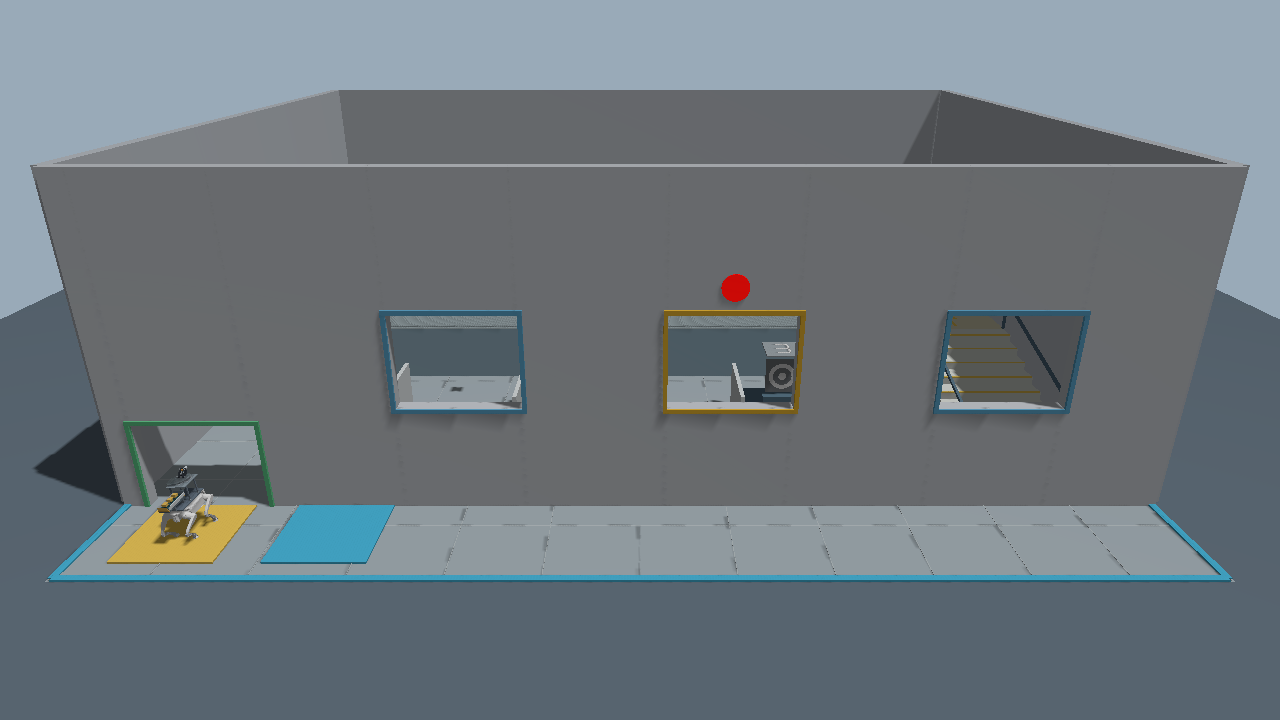
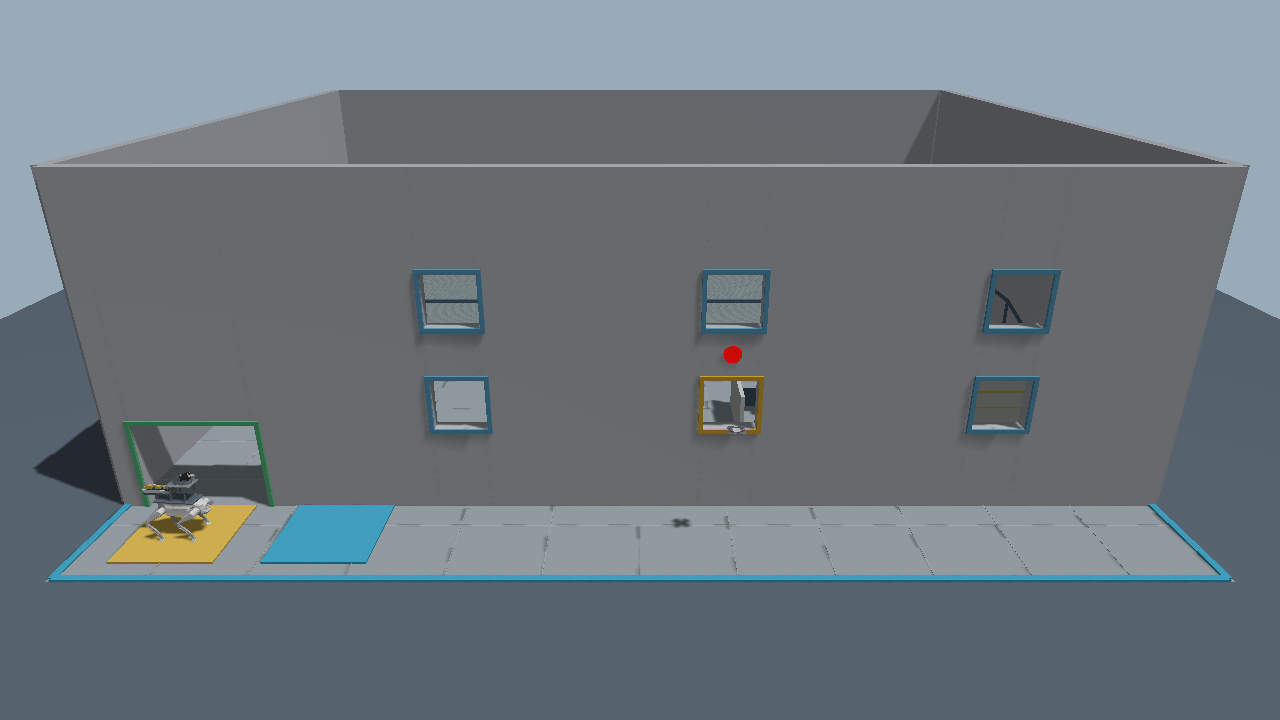
Resize facade to six 60 cm windows

diff --git a/launch/competition.launch.py b/launch/competition.launch.py
@@ -14,7 +14,7 @@ def generate_launch_description():
         'output': ('', 'New run directory; empty creates a timestamped ~/.ros run'),
         'max_sim_time': ('0', 'Stop after this many simulated seconds; 0 disables the limit'),
         'exit_on_finish': ('false', 'Stop the simulator when result.json is written'),
-        'fire_window': ('0', 'Fire window 1/2/3; 0 uses config/entry.json'),
+        'fire_window': ('0', 'Fire window 1 through 6; 0 uses config/entry.json'),
         'camera_views': ('all', 'all or comma-separated overview,dog,uav,fpv,uav_front,entry'),
         'camera_fps': ('20', 'Native camera sample rate, 1 through 60 Hz'),
     }

diff --git a/scripts/simulator.py b/scripts/simulator.py
@@ -30,7 +30,7 @@ def main():
     parser.add_argument('--output', default='')
     parser.add_argument('--max-sim-time', type=float, default=0.)
     parser.add_argument('--exit-on-finish', type=boolean, default=False)
-    parser.add_argument('--fire-window', type=int, choices=(0, 1, 2, 3), default=0)
+    parser.add_argument('--fire-window', type=int, choices=range(7), default=0)
     parser.add_argument('--camera-views', default='all')
     parser.add_argument('--camera-fps', type=int, choices=range(1, 61), default=20)
     args, unknown = parser.parse_known_args()

diff --git a/scripts/entry_scene.py b/scripts/entry_scene.py
@@ -80,7 +80,7 @@ def adapt_entry(world, config, entry, fire_window=0):
     element(marker, 'pose', f'{selected["center_x"]} {front-thickness/2-.012} {marker_z} {math.pi/2} 0 0')
     visual = element(marker, 'visual', name='red_fire_circle')
     cylinder = element(element(visual, 'geometry'), 'cylinder')
-    element(cylinder, 'radius', .15)
+    element(cylinder, 'radius', entry.get('fire_marker_radius', .15))
     element(cylinder, 'length', .012)
     material = element(visual, 'material')
     element(material, 'ambient', '1 .015 .01 1')

diff --git a/docs/ENTRY_VALIDATION.md b/docs/ENTRY_VALIDATION.md
@@ -1,14 +1,14 @@
-# 入楼流程验收（2026-10-21）
+# 六扇小窗与入楼流程验收（2026-10-21，v1.2.0）
 
-本次使用 ROS 2 Humble / Gazebo Fortress 6.16；原 D1 步态权重与动力学保留。
+本次使用 ROS 2 Humble / Gazebo Fortress 6.16；D1、Tello 的模型尺寸、D1 步态权重与动力学保持原样。
 
-- 默认 2 号着火窗：完整比赛 **3/3 通过**，用时 322.141 秒仿真时间；完成平地、转向、8 级楼梯、打靶、两次投放、集合与楼外降落。
-- 实测无人机在 `(7, 1.5, 1.8)` 附近穿入、从同一窗户飞出；D1 在 `(1, 1.5)` 附近走入独立地面门。
-- 1/3 号着火窗：分别通过穿窗、首报、机器狗进门检查；这两项仅验收入楼段，不作为全程比赛验收。
-- 刻意从非着火窗穿入：在首次目标报告前判为 `uav_invalid_window_entry`，没有计入任务成绩。
-- 学生模式的 `student_enter.py`：等待首报、转向、穿门并停稳通过；继续运行至 140 秒，巡查结束后无人机保持楼内悬停，没有自行穿墙返回楼外。
-- 新增入口观察相机与无人机前视相机均收到 ROS 2 RGB 图像；姿态控制改为世界坐标四元数误差后，全程无人机最大倾斜 9.75°。
-- 实体门窗开口、连续位姿穿越与机体完全入楼状态同时核对；没有通过瞬移机器人实现进楼。
+- 外立面改为上下两排、每排三扇窗，净开口均为 **0.6 × 0.6 m**。下排 1–3 号窗中心高 1.3 m，上排 4–6 号窗中心高 2.5 m；每排中心横坐标为 4、7、10 m。绿色独立地面门保持宽 1.4 m、高 1.05 m。
+- 六个窗位分别通过实际物理仿真的穿窗、楼内首报、机器狗进门检查。1/3/4/5/6 号窗各运行 75 秒，仅验收入楼段；不作为这五个窗位的全程比赛验收。
+- 默认下排 2 号着火窗：完整比赛 **3/3 通过**，用时 **322.141 秒仿真时间**；完成平地、转向、8 级楼梯、打靶、两次投放、集合与楼外降落。
+- 独立读取连续位姿并插值检查：无人机于 19.612 秒在 `(7, 1.5, 1.300)` 附近穿入，于 307.360 秒从同一窗飞出；D1 于 45.229 秒在 `(1, 1.5)` 附近走入地面门。首次目标报告为 37.655 秒，D1 完全入楼为 48.159 秒，顺序符合规则。
+- 两次投放落点误差分别为 0.1508 m、0.1488 m；红靶记录到弹体与靶板的实体接触。
+- 上下排反例：着火窗选下排 2 号，故意从同横坐标的上排 5 号窗穿入，在 22.401 秒被判为 `uav_invalid_window_entry`；此前没有首次目标报告，任务完成数为 0。窗位判定包含高度。
+- 核对实体门窗开口、连续位姿穿越与机体完全入楼状态；没有通过瞬移实现进楼。入口视频为实际 Gazebo 相机采集，约 30.3 帧/秒。
 
 复现默认全程：
 
@@ -16,5 +16,7 @@
 ros2 launch d1_tello_competition competition.launch.py gui:=false rate:=0 exit_on_finish:=true fire_window:=2
 ```
 
+`fire_window:=1` 至 `fire_window:=6` 可切换着火窗，红圆标记、入楼航点、出楼航点与通行判定同步变化。
 结果目录的 `result.json` 应包含 `strict_pass: true`、`completed_count: 3` 及 `entry_validation.passed: true`。
-着火窗仍由配置选择，演示使用已知航点；前视相机是学生实现视觉识别的接口，不代表已实现自动识别。
+
+着火窗由配置选择，教师演示使用已知航点；前视相机是学生实现视觉识别的接口，不代表已实现自动识别。

diff --git a/README.md b/README.md
@@ -5,7 +5,7 @@
 机器狗完成平地行走、转向、8 级楼梯、1 次打靶、2 次投放及集合；无人机从原窗飞出并返回楼外降落。
 **无需训练、PyTorch 或 CUDA。** 源码、地图、模型与推理权重均在本包内，运行时不下载模型。
 
-![楼外入口：绿色地面门与三扇候选窗，红圆标出本轮着火窗](docs/entry_facade.png)
+![楼外入口：绿色地面门与两排六扇小窗，红圆标出本轮着火窗](docs/entry_facade.png)
 
 ## 1. 安装与编译
 
@@ -24,7 +24,7 @@ sudo apt install build-essential cmake python3-colcon-common-extensions \
 
 mkdir -p ~/d1_ws/src
 # 将收到的压缩包放入当前目录；解压后为 src/d1_tello_competition
-tar -xzf d1_tello_competition_student_20261021.tar.gz -C ~/d1_ws/src
+tar -xzf d1_tello_competition_student_20261021_v1.2.0.tar.gz -C ~/d1_ws/src
 cd ~/d1_ws
 colcon build --packages-select d1_tello_competition --cmake-args -DCMAKE_BUILD_TYPE=Release
 source install/setup.bash
@@ -44,7 +44,10 @@ ros2 launch d1_tello_competition competition.launch.py
 场地为 12 × 10.4 m，二层高 0.8 m，楼梯高 0.1 m、踏面 0.3 m。
 六个候选位置中固定启用 1 号红靶、4/6 号绿投放点；此版本不随机抽取目标。
 外立面位于 `Y=1.5 m`，机器狗与无人机起点均在楼外。绿色门宽 1.4 m、高 1.05 m，无门槛；
-三扇窗中心分别为 `X=4/7/10 m, Z=1.8 m`，净宽 1.4 m、净高 1.1 m。默认第二扇窗上方有红圆着火标记。
+六扇窗分为上下两排，每排三扇，中心横坐标均为 `X=4/7/10 m`。
+下排 1–3 号窗中心高 `Z=1.3 m`，上排 4–6 号窗中心高 `Z=2.5 m`，净开口均为 **0.6 × 0.6 m**。
+默认下排 2 号窗上方有红圆着火标记，可用 `fire_window:=1` 至 `fire_window:=6` 切换。
+模型尺寸保持原样：无人机含护圈碰撞外廓约 17.8 × 19.3 cm；缩窗后窗宽约为机宽的 3.1 倍。
 选择其他着火窗会同时改变红圆位置、入楼航点、出楼航点和通行判定：
 
 ```bash
